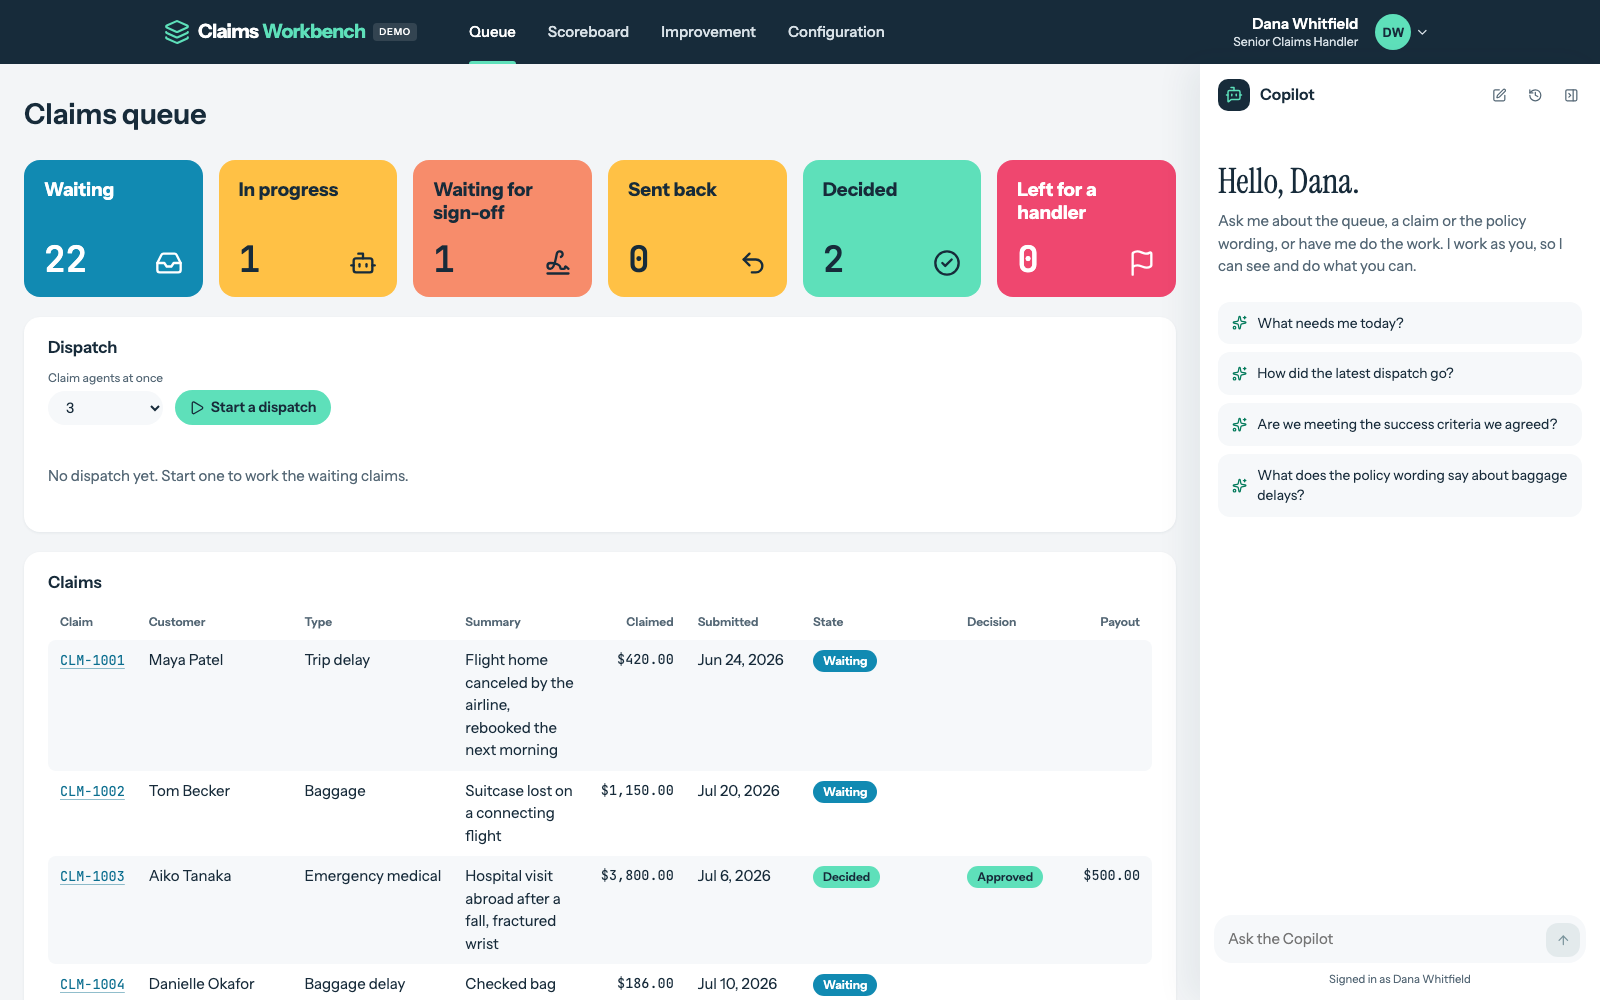
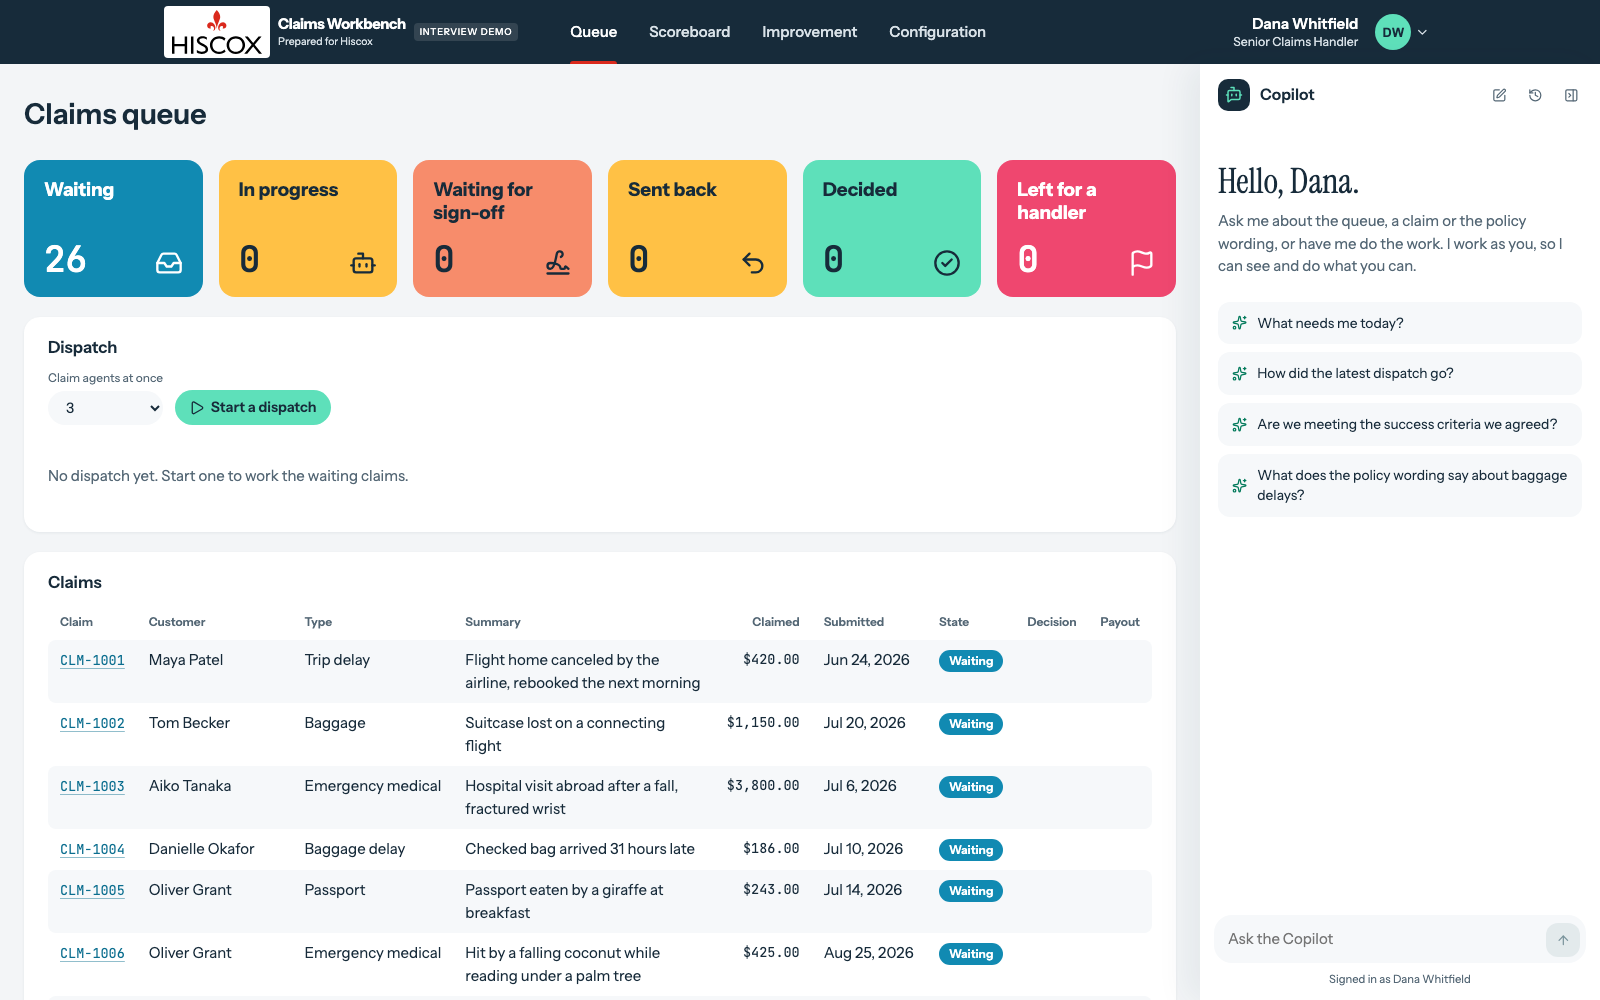
Present the claims workspace as a Hiscox interview demo

diff --git a/e2e/branding.spec.ts b/e2e/branding.spec.ts
@@ -3,16 +3,28 @@ import { expect, test } from "@playwright/test";
 test("the portfolio identity is clear on the workspace and sign-in page", async ({
   browser,
   page,
-}) => {
+}, testInfo) => {
+  await page.setViewportSize({ width: 1600, height: 1000 });
   await page.goto("/");
-  await expect(page.locator(".brand-name")).toHaveText("ClaimsWorkbench");
-  await expect(page.locator(".demo-badge")).toHaveText("Demo");
-  await expect(page).toHaveTitle(
-    "Claims Workbench | Agentic Claims Operations",
+  const logo = page.getByRole("img", { name: "Hiscox", exact: true });
+  await expect(logo).toBeVisible();
+  await expect
+    .poll(() => logo.evaluate((image: HTMLImageElement) => image.naturalWidth))
+    .toBeGreaterThan(0);
+  await expect(page.locator(".brand-name")).toHaveText("Claims Workbench");
+  await expect(page.locator(".brand-caption")).toHaveText(
+    "Prepared for Hiscox",
   );
+  await expect(page.locator(".demo-badge")).toHaveText("Interview demo");
+  await expect(page).toHaveTitle("Hiscox | Claims Workbench Demo");
   await expect(
     page.getByRole("heading", { name: "Claims queue" }),
   ).toBeVisible();
+  await expect(page.locator("tbody tr")).toHaveCount(26);
+  await page.screenshot({
+    path: testInfo.outputPath("claims-queue.png"),
+    fullPage: true,
+  });
 
   const context = await browser.newContext({
     storageState: { cookies: [], origins: [] },
@@ -20,10 +32,40 @@ test("the portfolio identity is clear on the workspace and sign-in page", async 
   const visitor = await context.newPage();
   await visitor.goto("/sign-in");
   await expect(
-    visitor.getByText("Independent portfolio demonstration by Behrad Zabihi."),
+    visitor.getByRole("img", { name: "Hiscox", exact: true }),
+  ).toBeVisible();
+  await expect(
+    visitor.getByText(
+      "Independent interview demo prepared for Hiscox by Behrad Zabihi.",
+    ),
   ).toBeVisible();
   await expect(
     visitor.getByText("Synthetic policies and claims. No real payments."),
   ).toBeVisible();
+  await visitor.screenshot({
+    path: testInfo.outputPath("sign-in.png"),
+    fullPage: true,
+  });
   await context.close();
+});
+
+test("the Hiscox presentation fits phone and tablet widths in light and dark mode", async ({
+  page,
+}) => {
+  for (const width of [375, 1024, 1100, 1152]) {
+    await page.setViewportSize({ width, height: 812 });
+    for (const colorScheme of ["light", "dark"] as const) {
+      await page.emulateMedia({ colorScheme });
+      await page.goto("/");
+      await expect(
+        page.getByRole("img", { name: "Hiscox", exact: true }),
+      ).toBeVisible();
+      await expect(
+        page.getByText("Prepared for Hiscox", { exact: true }),
+      ).toBeVisible();
+      expect(
+        await page.evaluate(() => document.documentElement.scrollWidth),
+      ).toBeLessThanOrEqual(width);
+    }
+  }
 });

diff --git a/dashboard/src/styles.css b/dashboard/src/styles.css
@@ -6,6 +6,7 @@
   --raspberry: #ef476f;
   --midnight: #172b3a;
   --sea-mist: #d9e2e8;
+  --brand-accent: #da291c;
 
   /* Each color for light mode, then dark mode. */
   --page: light-dark(#f3f5f7, #101820);
@@ -182,7 +183,7 @@ p {
   color: var(--sea-mist);
 }
 
-/* Plain links, with a Sea Green bar under the page you're on. */
+/* Navigation uses the presentation's brand accent. */
 .nav {
   display: flex;
   align-items: stretch;
@@ -212,7 +213,7 @@ p {
   bottom: 0;
   height: 3px;
   border-radius: 3px 3px 0 0;
-  background: var(--sea-green);
+  background: var(--brand-accent);
 }
 
 .who {
@@ -323,7 +324,7 @@ p {
   color: var(--muted);
 }
 
-@media (max-width: 960px) {
+@media (max-width: 1200px) {
   .header-bar {
     height: auto;
     flex-wrap: wrap;
@@ -2373,13 +2374,30 @@ fieldset.panel legend + * {
   }
 }
 
-.brand-name {
-  display: inline-flex;
-  gap: 4px;
-  letter-spacing: -0.035em;
+.brand-logo {
+  display: flex;
+  align-items: center;
+  background: #ffffff;
+  padding: 4px 8px;
+  border-radius: 4px;
 }
-.brand-name-accent {
-  color: var(--sea-green);
+.brand-logo img {
+  display: block;
+  object-fit: contain;
+}
+.brand-copy {
+  display: grid;
+  gap: 2px;
+  line-height: 1.2;
+}
+.brand-name {
+  font-size: 0.98rem;
+  letter-spacing: -0.025em;
+}
+.brand-caption {
+  font-size: 0.7rem;
+  font-weight: 400;
+  color: var(--sea-mist);
 }
 .demo-badge {
   border-radius: 4px;

diff --git a/dashboard/index.html b/dashboard/index.html
@@ -3,10 +3,10 @@
   <head>
     <meta charset="UTF-8" />
     <meta name="viewport" content="width=device-width, initial-scale=1.0" />
-    <title>Claims Workbench | Agentic Claims Operations</title>
+    <title>Hiscox | Claims Workbench Demo</title>
     <meta
       name="description"
-      content="An independent insurance claims demonstration: durable AI agents, auditable decisions, human approval and a handler copilot."
+      content="An independent interview demo prepared for Hiscox by Behrad Zabihi: durable claims agents, auditable decisions, human approval and a handler copilot."
     />
     <link rel="icon" type="image/svg+xml" href="/favicon.svg" />
     <link rel="preconnect" href="https://fonts.googleapis.com" />

diff --git a/dashboard/src/components/Brand.tsx b/dashboard/src/components/Brand.tsx
@@ -1,13 +1,14 @@
-import { Layers3 } from "lucide-react";
-
 export function Brand() {
   return (
     <>
-      <Layers3 aria-hidden />
-      <span className="brand-name">
-        Claims<span className="brand-name-accent">Workbench</span>
+      <span className="brand-logo">
+        <img src="/hiscox-logo.svg" alt="Hiscox" width="90" height="44" />
       </span>
-      <span className="demo-badge">Demo</span>
+      <span className="brand-copy">
+        <span className="brand-name">Claims Workbench</span>
+        <span className="brand-caption">Prepared for Hiscox</span>
+      </span>
+      <span className="demo-badge">Interview demo</span>
     </>
   );
 }

diff --git a/dashboard/src/pages/SignInPage.tsx b/dashboard/src/pages/SignInPage.tsx
@@ -58,7 +58,7 @@ export function SignInPage() {
         </ActionForm>
       </section>
       <p className="demo-disclaimer">
-        Independent portfolio demonstration by Behrad Zabihi.
+        Independent interview demo prepared for Hiscox by Behrad Zabihi.
         <br />
         Synthetic policies and claims. No real payments.
       </p>

diff --git a/docs/VERIFICATION.md b/docs/VERIFICATION.md
@@ -8,7 +8,7 @@ Verified on November 5, 2026, with Python 3.12.12 and Node 26.12.0 on macOS, plu
 | Python tests | 836 passed; 99% coverage |
 | Frontend lint, format and TypeScript | Passed |
 | Frontend unit tests | 178 passed across 18 files; 97.42% statement coverage |
-| Playwright browser tests | 31 passed, including sign-in, claim workflows, permissions, Copilot and branding |
+| Playwright browser tests | 32 passed, including sign-in, claim workflows, permissions, Copilot and branding |
 | Isolated server/context/runtime dependencies | Passed; both agent runtime entry points import |
 | Production dashboard build | Passed |
 | Docker image build and Compose configuration | Passed |
@@ -23,5 +23,7 @@ An independent senior-engineer review found two AWS naming issues introduced by 
 Development dependency updates addressed inherited npm advisories. The `minimatch` override pins a patched version 11 for development-tool consumers that otherwise select vulnerable version 10. That crosses their declared major-version range; the full lint, type and test checks validate the installed combination. Keep the lockfile and revisit the override when upstream tools adopt the fixed major version.
 
 The screening prompt's regression contract is a standalone JSON fixture, so tests no longer require external notebooks. Container host validation has explicit allowed-host and denied-host tests. Screenshots were captured from the real dashboard against isolated test services and inspected visually.
+
+The Hiscox interview presentation uses the official logo as a local asset, with an independent-demo label. Browser checks verify the logo loads and the presentation fits phone and tablet widths in light and dark mode. The application identity, synthetic policy wording and repository remain generic.
 
 Tests use stub models, synthetic data and local service stand-ins. These results establish software behavior and packaging, not live model accuracy or a deployed cloud environment. No paid model calls or cloud provisioning were performed. Existing recovery and confirmation limitations are documented in `ARCHITECTURE.md`.

diff --git a/NOTICE.md b/NOTICE.md
@@ -5,3 +5,5 @@ Claims Workbench is adapted by Behrad Zabihi from [UnderCover](https://github.co
 Redistribution permission was confirmed by Behrad Zabihi. The source repository did not include a license file; this notice does not grant a new license over the original code. Original authors retain their rights.
 
 This edition provides independent branding, application-only packaging, deployment configuration, documentation and verification. Third-party dependencies retain their respective licenses.
+
+The Hiscox name and logo belong to Hiscox Ltd. The logo in `dashboard/public/hiscox-logo.svg` comes from [Hiscox's official website](https://www.hiscoxgroup.com/themes/custom/hiscox/logo-black.svg) and identifies the intended interview audience. This independent demonstration is not commissioned, endorsed or operated by Hiscox, and its synthetic policies are not Hiscox policy wording.

diff --git a/README.md b/README.md
@@ -6,6 +6,8 @@ An independent insurance claims platform with durable AI agents, human approval 
 
 The demo uses synthetic travel claims and illustrative policy wording. It is not affiliated with an insurer, makes no real payments and does not represent an insurer's underwriting rules.
 
+The website is currently presented as an **interview demo prepared for Hiscox**, with its official logo and a clear independent-demo label. The repository and underlying application remain Claims Workbench.
+
 ![Claims Workbench dashboard with the handler Copilot](docs/images/claims-queue.png)
 
 ## What it demonstrates
